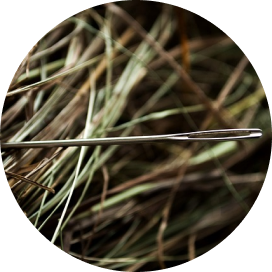
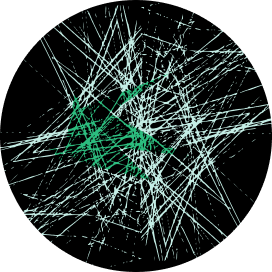
update landing page, make it responsive

diff --git a/src/components/LandingPageInfo/index.tsx b/src/components/LandingPageInfo/index.tsx
@@ -4,15 +4,27 @@ import Styled from 'styled-components'
 import { navigate } from 'hookrouter'
 
 // components
+import ViewLayout from '../../components/ViewLayout'
 import ViewTitle from '../../components/ViewTitle'
 import Haystack from '../../components/Haystack'
 import { Button } from '../Button'
 
-import virus from '../../assets/virus_light.png'
+import virus from '../../assets/virus_2.png'
+
+const PlayPuzzleButton = () => (
+    <Button
+        disabled={false}
+        key={'nav-game-button'}
+        onClick={() => navigate('/game')}
+        variant={'primary'}
+    >
+        play the puzzle
+    </Button>
+)
 
 export default () => {
     return (
-        <LandingPageInfo.Layout>
+        <ViewLayout>
             <ViewTitle
                 title={'how can this help scientists?'}
                 subtitle={
@@ -20,42 +32,41 @@ export default () => {
                 }
                 key={'view-title-home'}
             />
+
             <Haystack />
+
             <Description.Wrapper>
                 <Description.GameDescription>
-                    Every gameplay is giving hints of patterns to an AI. With
-                    our help it gets better at predicting what’s the correct
-                    epitope, leading to a vaccine formula. Without our
-                    gameplays, it would take years for an AI to try all possible
-                    combinations.
+                    Every gameplay is giving hints of patterns to an AI. With our help it gets
+                    better at predicting what’s the correct epitope, leading to a vaccine formula.
+                    <br />
+                    <br />
+                    <PlayPuzzleButton />
                 </Description.GameDescription>
+
                 <Description.VirusDescriptionWrapper>
                     <Description.VirusP>
-                        Viruses are made of protein sequences, each protein
-                        sequence is formed by 50-100 amino-acids. Each amino
-                        acid is like an individual bead, strung together, they
-                        form a protein just like in jewellery individual beads
-                        form a necklace.
+                        Viruses are made of protein sequences, each protein sequence is formed by
+                        50-100 amino-acids. Each amino acid is like an individual bead, strung
+                        together, they form a protein just like in jewellery individual beads form a
+                        necklace.
                     </Description.VirusP>
                     <Description.VirusP>
-                        When a virus infects us, our immune system releases
-                        defence cells. These cells scan organisms in our
-                        bloodstream looking for a specific part called an
-                        epitope. An epitope is like a "barcode" identifying if
-                        the organism belongs to the body or if it is an
-                        intruder.
+                        When a virus infects us, our immune system releases defence cells. These
+                        cells scan organisms in our bloodstream looking for a specific part called
+                        an epitope. An epitope is like a "barcode" identifying if the organism
+                        belongs to the body or if it is an intruder.
                     </Description.VirusP>
                     <Description.VirusP>
-                        To teach our bodies to recognise specific epitopes as
-                        belonging to a virus, we need to find a formula for that
-                        epitope, create it in the laboratory and then inject it
-                        into our bodies as a vaccine. Our defence cells can then
-                        scan this epitope’s “barcode”, recognise it is an
-                        intruder and prepare the defence system for a fight in
-                        case a real virus enters our bodies.
+                        To teach our bodies to recognise specific epitopes as belonging to a virus,
+                        we need to find a formula for that epitope, create it in the laboratory and
+                        then inject it into our bodies as a vaccine. Our defence cells can then scan
+                        this epitope’s “barcode”, recognise it is an intruder and prepare the
+                        defence system for a fight in case a real virus enters our bodies.
                     </Description.VirusP>
                 </Description.VirusDescriptionWrapper>
             </Description.Wrapper>
+
             <Challenge.Wrapper>
                 <Challenge.Left>
                     <Challenge.VirusImage src={virus} alt={'corona virus'} />
@@ -66,88 +77,94 @@ export default () => {
                         <Challenge.Line>Coronavirus COVID-19</Challenge.Line>
                     </Challenge.Subtitle>
                     <Challenge.Description>
-                        There are 500,000 aminoacids. Millions of possibilities.
-                        We need millions of people to help.
+                        There are 500,000 aminoacids. <br />
+                        Millions of possibilities. <br />
+                        We need millions ofpeople to help.
                     </Challenge.Description>
                 </Challenge.Right>
             </Challenge.Wrapper>
-            <Button
-                disabled={false}
-                key={'nav-game-button'}
-                onClick={() => navigate('/game')}
-                variant={'primary'}
-            >
-                play the puzzle
-            </Button>
-        </LandingPageInfo.Layout>
-    )
-}
 
-const LandingPageInfo = {
-    Layout: Styled.div`
-    display: flex;
-    flex-direction: column;
-    align-items: center;
-    `,
+            <PlayPuzzleButton />
+        </ViewLayout>
+    )
 }
 
 const Description = {
     Wrapper: Styled.div`
-  display: flex;
-  flex-direction: column;
-  align-items: center;
-  margin-top: 70px;
-  width: 40%;
-  `,
+      display: flex;
+      flex-direction: column;
+      align-items: center;
+      margin-top: 70px;
+      max-width: 560px;
+
+      @media (max-width: 768px) {
+        text-align: center;
+      }
+    `,
     GameDescription: Styled.span`
-  display: flex;
-  font-family: ${(props) => props.theme.font.family.title};
-  font-size: ${(props) => props.theme.font.size.medium};
-  `,
+      font-family: ${(props) => props.theme.font.family.title};
+      font-size: ${(props) => props.theme.font.size.medium};
+    `,
     VirusDescriptionWrapper: Styled.div`
-  display: flex;
-  flex-direction: column;
-  align-items: center;
-  margin-top: 20px;
-  `,
+      display: flex;
+      flex-direction: column;
+      align-items: center;
+      margin-top: 70px;
+    `,
     VirusP: Styled.p`
-  display: flex;
-  `,
+      display: flex;
+    `,
 }
 
 const Challenge = {
     Wrapper: Styled.div`
-  display: flex;
-  flex-direction: row;
-  align-items: center;
-  margin-top: 50px;
-  width: 60%;
-  margin-bottom: 30px;
-  `,
+      display: flex;
+      flex-direction: row;
+      align-items: center;
+      justify-content: center;
+      margin-top: 50px;
+      margin-bottom: 30px;
+
+      @media (max-width: 768px) {
+        flex-direction: column;
+      }
+    `,
     Left: Styled.div`
-  display: flex;
-  flex: 1;
-  `,
+      display: flex;
+      flex: 1;
+      justify-content: flex-end;
+    `,
     VirusImage: Styled.img`
-  width: 267px;
-  height: 267px;
-  `,
+      width: 267px;
+      height: 267px;
+    `,
     Right: Styled.div`
-  display: flex;
-  flex-direction: column;
-  flex: 1;
-  `,
+      display: flex;
+      flex-direction: column;
+      flex: 2;
+      margin-left: 30px;
+
+      @media (max-width: 768px) {
+        margin-left: 0;
+        margin-top: 20px;
+        text-align: center;
+      }
+    `,
     Subtitle: Styled.div`
-  display: flex;
-  flex-direction: column;
-  `,
+      display: flex;
+      flex-direction: column;
+
+      @media (max-width: 768px) {
+        align-items: center;
+      }
+    `,
     Line: Styled.span`
-  display: flex;
-  font-family: ${(props) => props.theme.font.family.title};
-  font-size: ${(props) => props.theme.font.size.medium};
-  `,
+      display: flex;
+      font-family: ${(props) => props.theme.font.family.title};
+      font-size: ${(props) => props.theme.font.size.medium};
+    `,
     Description: Styled.p`
-  display: flex;
-  font-family: ${(props) => props.theme.font.family.body};
-  `,
+      display: flex;
+      font-family: ${(props) => props.theme.font.family.body};
+    `,
 }

diff --git a/src/components/Haystack/index.tsx b/src/components/Haystack/index.tsx
@@ -33,6 +33,10 @@ const Haystack = {
       display: flex;
       flex-direction: row;
       align-items: center;
+
+      @media (max-width: 900px) {
+        flex-direction: column;
+      }
     `,
     Left: Styled.div`
       display: flex;
@@ -44,50 +48,37 @@ const Haystack = {
       flex-direction: row;
       justify-content: flex-end;
       flex: 1;
-    `,
-    OuterCircle: Styled.div`
-      background: ${(props) => props.theme.colors.primaryGreen};
-      border-radius: 50%;
-      height: 400px;
-      width: 400px;
-      position: relative;
 
       @media (max-width: 900px) {
-        transform: scale(0.75);
+        margin-top: 30px;
+        text-align: center;
       }
     `,
-    InnerCircle: Styled.div`
-      position: absolute;
-      background: ${(props) => props.theme.colors.darkerGreen};
+    OuterCircle: Styled.div`
       border-radius: 50%;
-      height: 394px;
-      width: 394px;
-      top: 50%;
-      left: 50%;
-      transform: translate(-50%, -50%);
+      border: 3px solid ${(props) => props.theme.colors.primaryGreen};
+    `,
+    InnerCircle: Styled.div`
+      border-radius: 50%;
+      border: 20px solid ${(props) => props.theme.colors.darkerGreen};
     `,
     MostInnerCircle: Styled.div`
-      position: absolute;
-      background: ${(props) => props.theme.colors.dark['shade-1']};
       border-radius: 50%;
-      height: 354px;
-      width: 354px;
-      top: 50%;
-      left: 50%;
-      transform: translate(-50%, -50%);
+      border: 14px solid ${(props) => props.theme.colors.dark['shade-1']};
     `,
     Image: Styled.div`
-      position: absolute;
       background: url(${haystack});
-      border-radius: 50%;
-      padding: 5px;
-      height: 334px;
-      width: 334px;
-      top: 50%;
-      left: 50%;
-      transform: translate(-50%, -50%);
       background-repeat: no-repeat;
       background-size: contain;
+      border-radius: 50%;
+      padding: 5px;
+      width: 272px;
+      height: 272px;
+
+      @media (max-width: 900px) {
+        width: 200px;
+        height: 200px;
+      }
     `,
     Subtitle: Styled.div`
       display: flex;

diff --git a/src/components/Hero/index.tsx b/src/components/Hero/index.tsx
@@ -47,7 +47,7 @@ const Hero = {
       align-items: center;
       height: 510px;
       width: 100%;
-      margin-bottom: 80px;
+      margin-bottom: 40px;
       background-image: url(${virus});
       background-repeat: no-repeat;
       background-size: 510px 510px;

diff --git a/src/components/ViewTitle/index.tsx b/src/components/ViewTitle/index.tsx
@@ -20,7 +20,7 @@ const ViewTitle = {
     Wrapper: Styled.div`
     display: flex;
     flex-direction: column;
-    width: 80%;
+    max-width: 720px;
     align-items: center;
     text-align: center;
   `,
